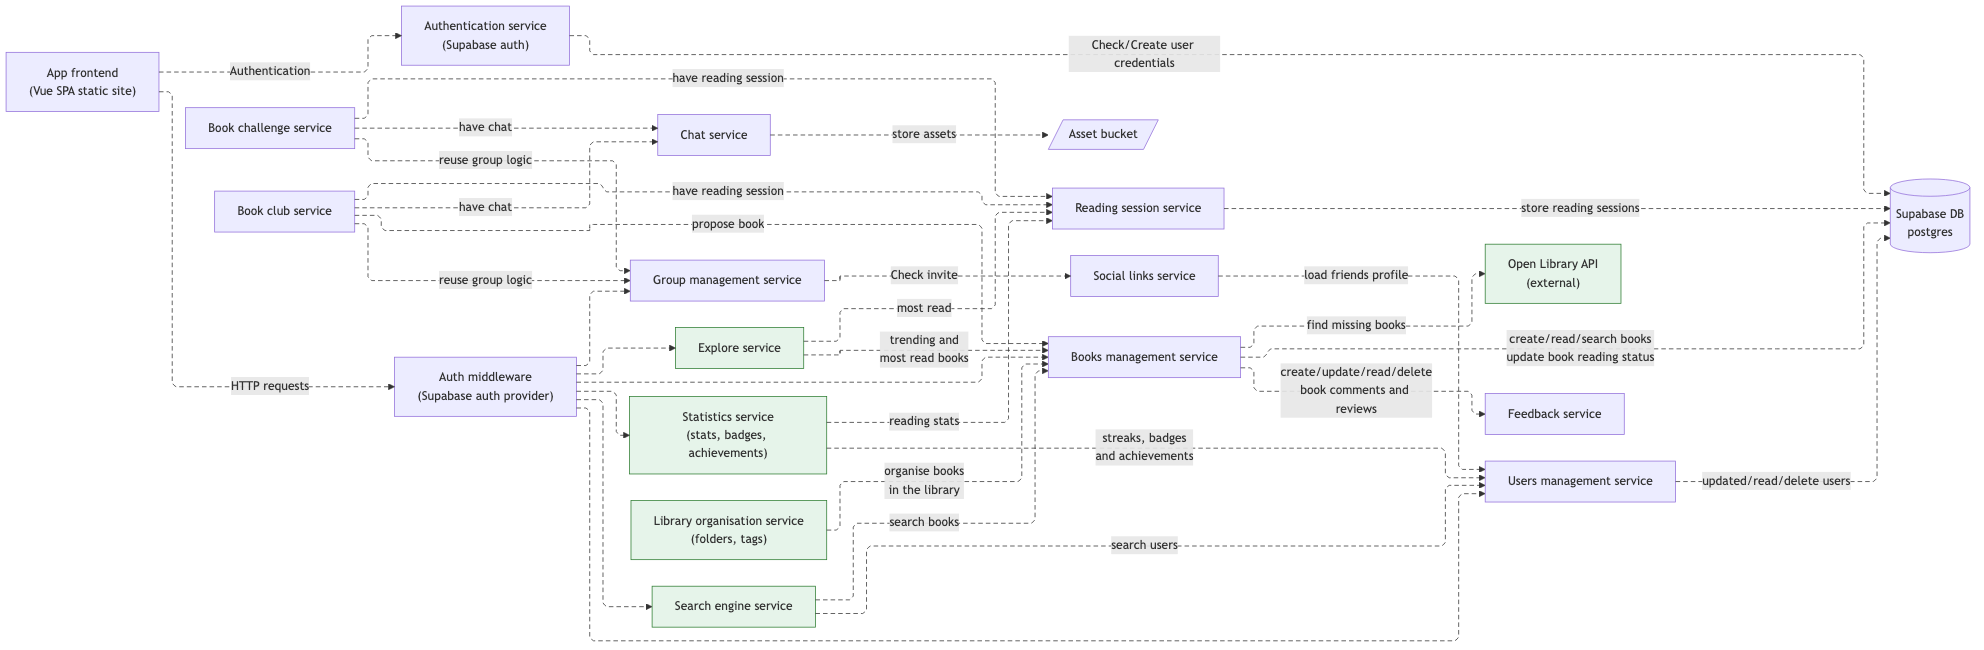
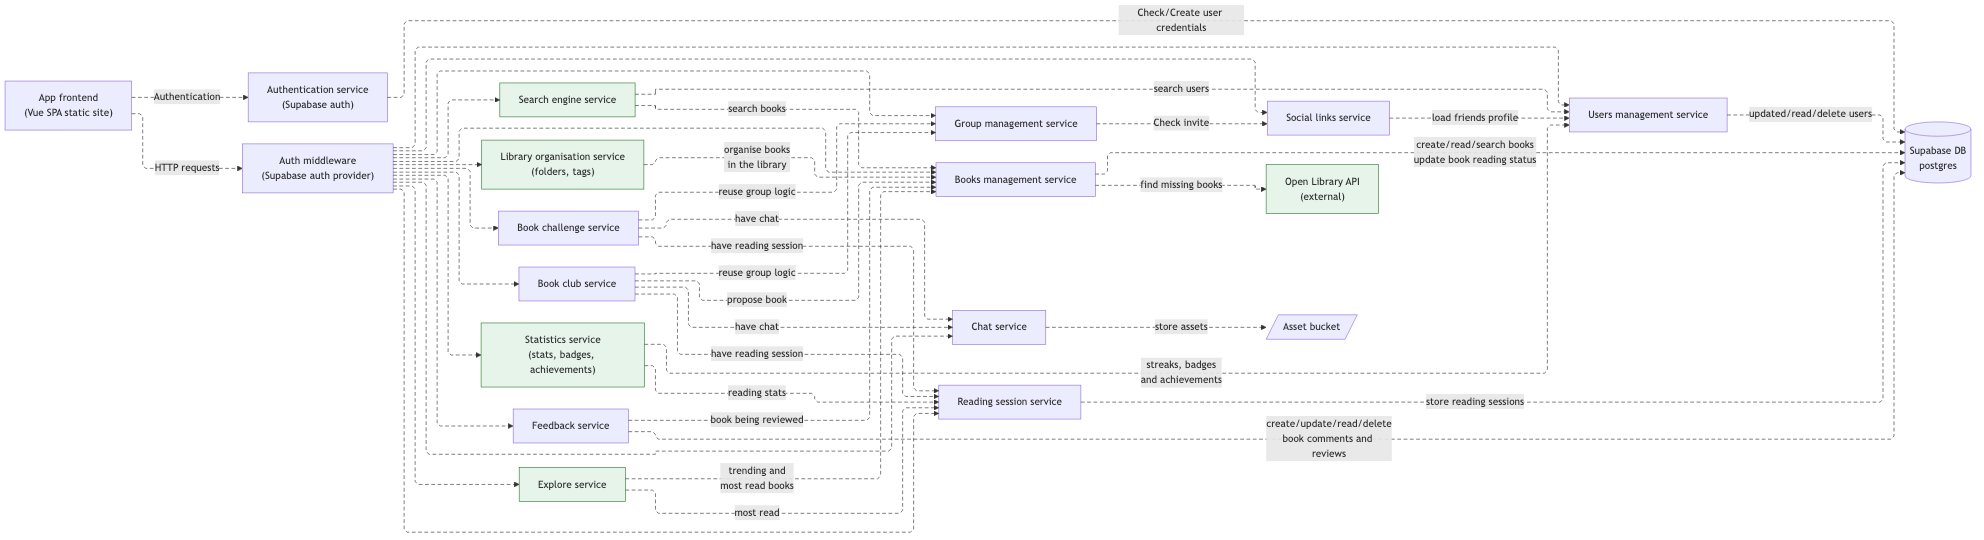
docs: fix dependency directions in iteration 2 component diagram
Feedback now depends on books management, and the auth middleware
routes to every service the frontend calls. Explain why the diagram
moved from draw.io to mermaid.

diff --git a/docs/design.md b/docs/design.md
@@ -488,10 +488,18 @@ flowchart LR
     MW -.-> SE
     MW -.-> EX
     MW -.-> ST
+    MW -.-> LO
+    MW -.-> FB
+    MW -.-> RS
+    MW -.-> CH
+    MW -.-> SL
+    MW -.-> BC
+    MW -.-> BCH
 
     BM -. "create/read/search books<br/>update book reading status" .-> DB
     BM -. "find missing books" .-> OL
-    BM -. "create/update/read/delete<br/>book comments and reviews" .-> FB
+    FB -. "book being reviewed" .-> BM
+    FB -. "create/update/read/delete<br/>book comments and reviews" .-> DB
     LO -. "organise books<br/>in the library" .-> BM
 
     SE -. "search books" .-> BM
@@ -530,7 +538,14 @@ flowchart LR
 - **Statistics service (new).** Reading stats, streaks, badges and achievements. It reads the reading sessions and saves the results on the user.
 - **Library organisation service (new).** Folders and tags to organise the books in a reader's library.
 - **Open Library API (new, external).** Books management asks it for books that are not in our database.
-- The middleware now also routes requests to the Search engine, Explore and Statistics services. The rest of the iteration 1 services and links are unchanged.
+- **Every service is reached through the auth middleware.** In iteration 1 only three services had an arrow from it; now every service the frontend calls has one.
+- **Feedback depends on Books management, not the other way round.** A review is about a book, so the Feedback service asks Books management for the book and stores the reviews itself. In iteration 1 the arrow pointed from Books management to Feedback.
+- **Arrows follow UML 2.** Every link is a dependency: a dashed arrow from the component that uses something to the component it uses.
+- The rest of the iteration 1 services and links are unchanged.
+
+#### Why we moved from draw.io to Mermaid
+
+The iteration 0 and 1 component diagrams were drawn in draw.io. From iteration 2 the diagram is written in Mermaid (the source is above) and the PNG is generated from it. Mermaid is text, so it is easier to change, and a change shows up as a normal diff in a pull request, which makes it easier to review. The layout is done automatically, so adding a service does not mean moving boxes by hand.
 
 ### Change analysis
 

diff --git a/docs/iterations/2/log.md b/docs/iterations/2/log.md
@@ -441,3 +441,4 @@ Rewrote the [iteration 2 change analysis](../../oop_assets/change_anaysis_iterat
 - Renumbered the [`design.md`](../../design.md) sections to match the iteration folders and PNG names (Iteration 0, 1, 2 instead of 1, 2, 3), since iteration 3 has not started. The iteration 2 class diagram and its list of changes from iteration 1 now sit under Iteration 2. Fixed the broken links to the change analyses.
 - Updated the [iteration 2 component diagram](../../design.md#component-diagram-2) (Mermaid source and [PNG](../../oop_assets/component_diagram_iteration_2.png)): added a **Search engine service** that finds books (through Books management) and users (through Users management), and replaced the planned Badge service with a planned **Statistics service** (stats, badges, achievements). Dropped the separate simple Mermaid view in favour of this single diagram.
 - Redrew the [iteration 2 component diagram](../../design.md#component-diagram-2) ([PNG](../../oop_assets/component_diagram_iteration_2.png)) in the simple style of the iteration 1 draw.io diagram, adding the new services as built: Search engine (books and users), Explore, Statistics (stats, badges, achievements), Library organisation and the Open Library API. Links use UML 2 dependency notation (dashed lines) with straight, right-angled arrows. Replaced the previous detailed version, which was harder to read.
+- Reviewed the dependency directions of the [iteration 2 component diagram](../../design.md#component-diagram-2): Feedback now depends on Books management (it was reversed in iteration 1) and stores its own reviews, and the auth middleware routes to every service the frontend calls. Added to `design.md` why the component diagram moved from draw.io to Mermaid (text is easier to change and review in a pull request).

diff --git a/docs/iterations/2/LLM_LOG.md b/docs/iterations/2/LLM_LOG.md
@@ -923,3 +923,19 @@ no, I mean, get the design of the component_diagram_iteration_1 and add the new 
 
 #### Explanation of Changes
 Rebuilt the iteration 2 component diagram as a Mermaid flowchart that follows the services and links of the iteration 1 draw.io diagram, adding Search engine, Explore, Statistics, Library organisation and Open Library as built services. Regenerated `component_diagram_iteration_2.png` and replaced its Mermaid source and change list in `docs/design.md`.
+
+### 2026-11-23: Dependency review of the iteration 2 component diagram
+
+- **Date:** 2026-11-23
+- **Author:** Robert Gleison
+- **Model:** Claude Opus 5.5
+- **Tool:** Claude Code
+- **Domain:** docs, architecture
+
+#### Prompt
+```text
+ok, so, add the new png to the desing.md. Add what we changed we we don't have yet. Also add the reason we changed the desging from drawio to mermaid (because is easier to change and review in mermaid). Also, review if the arrows have the correct source-target direction of dependencies
+```
+
+#### Explanation of Changes
+Reviewed every arrow of the iteration 2 component diagram against UML 2 dependency direction: reversed Books management → Feedback to Feedback → Books management, added Feedback's own database link and middleware links to every service the frontend calls. Extended the change list in `docs/design.md`, added a section on moving from draw.io to Mermaid, and regenerated the PNG.
